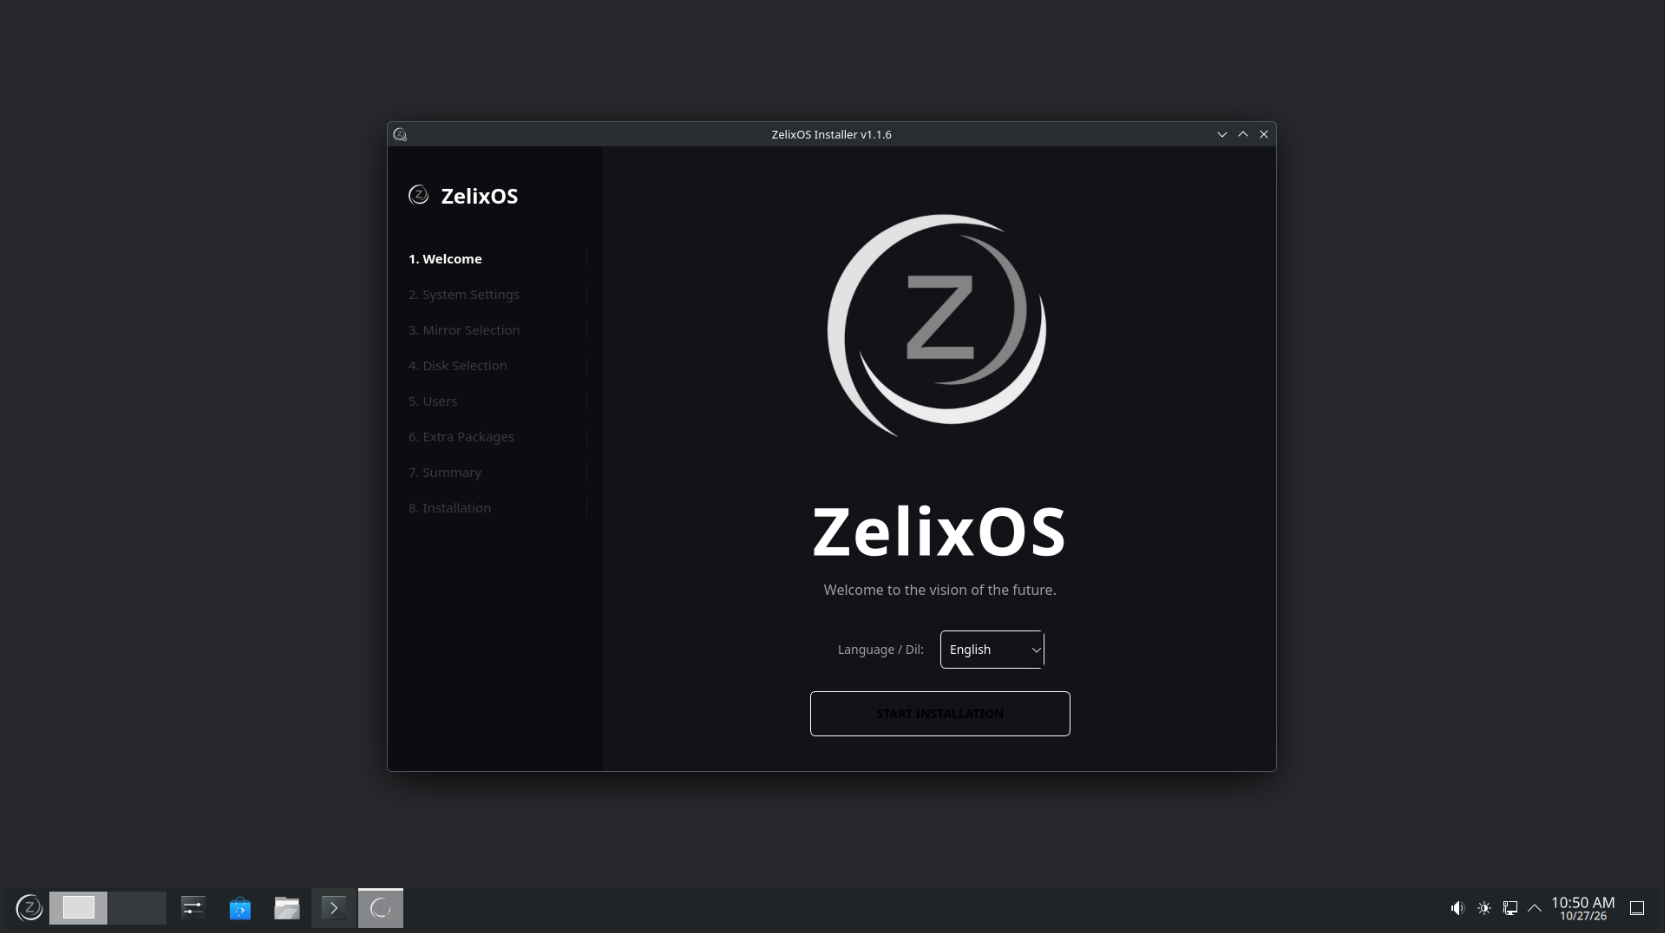
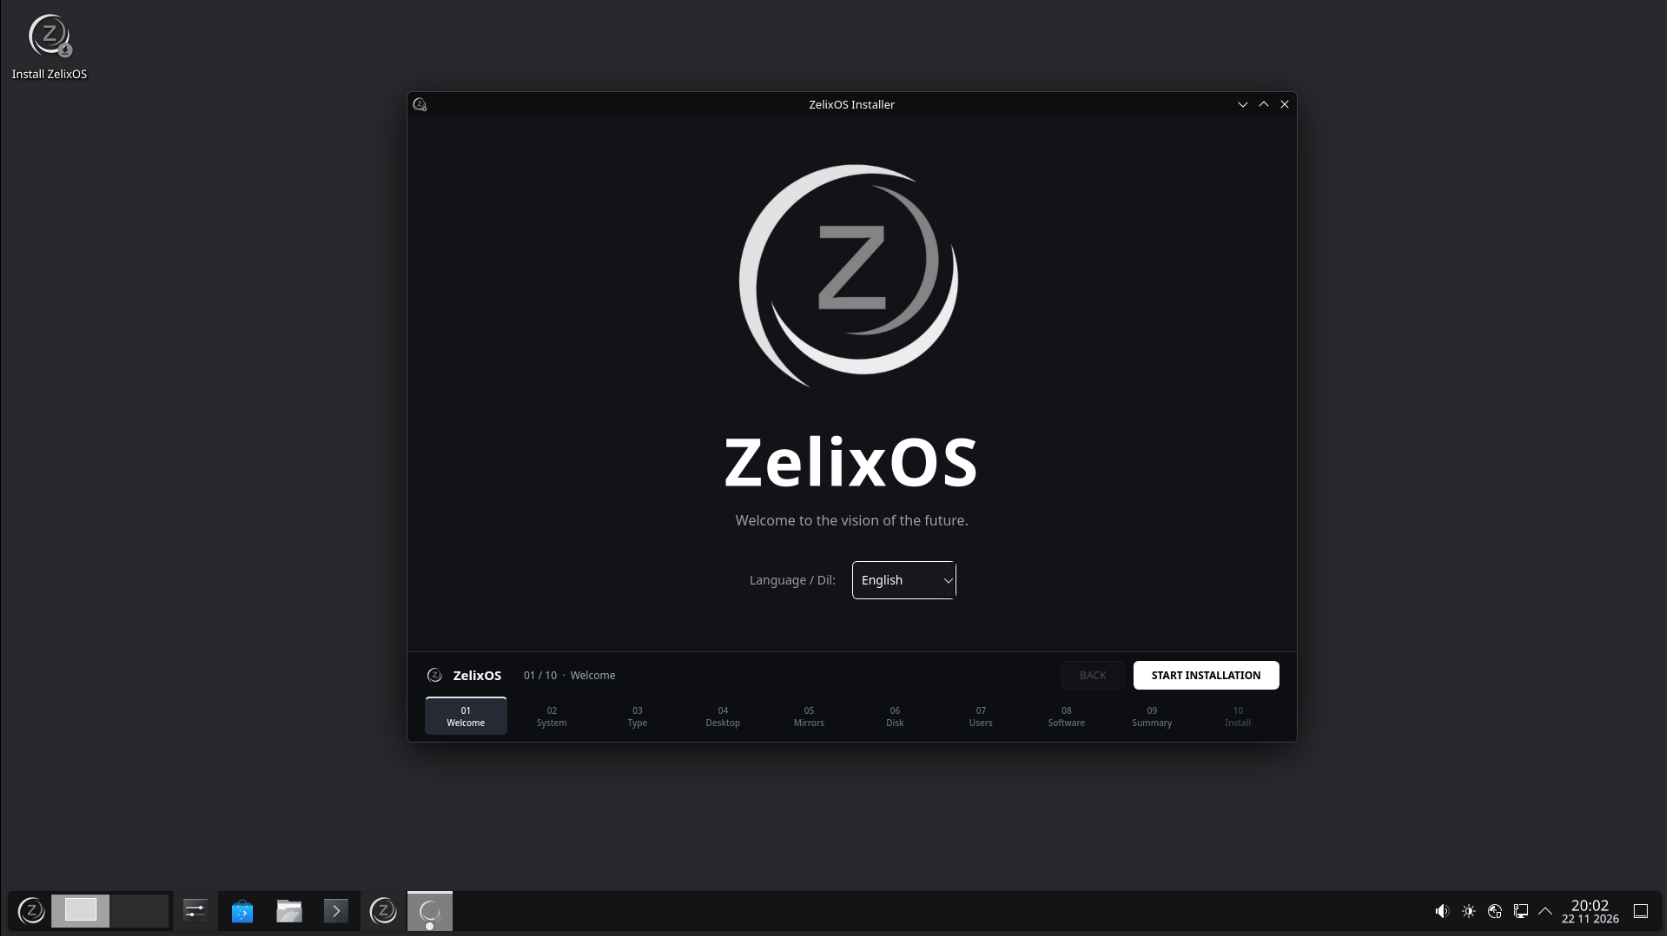
Update README with current application screenshots

diff --git a/README.md b/README.md
@@ -2,7 +2,7 @@
 
 The graphical installer for ZelixOS, written in Python and PyQt6. It uses Archinstall and provides a single interface for user accounts, disks, kernels, desktops, and bootloaders.
 
-![Zelixins graphical installer](docs/images/zelixins.png)
+![Latest Zelixins welcome screen in the ZelixOS live desktop](docs/images/zelixins.png)
 
 The interface is available in English, Turkish, and Spanish. The selected language controls the installer UI; the installed system locale is configured separately.
 
